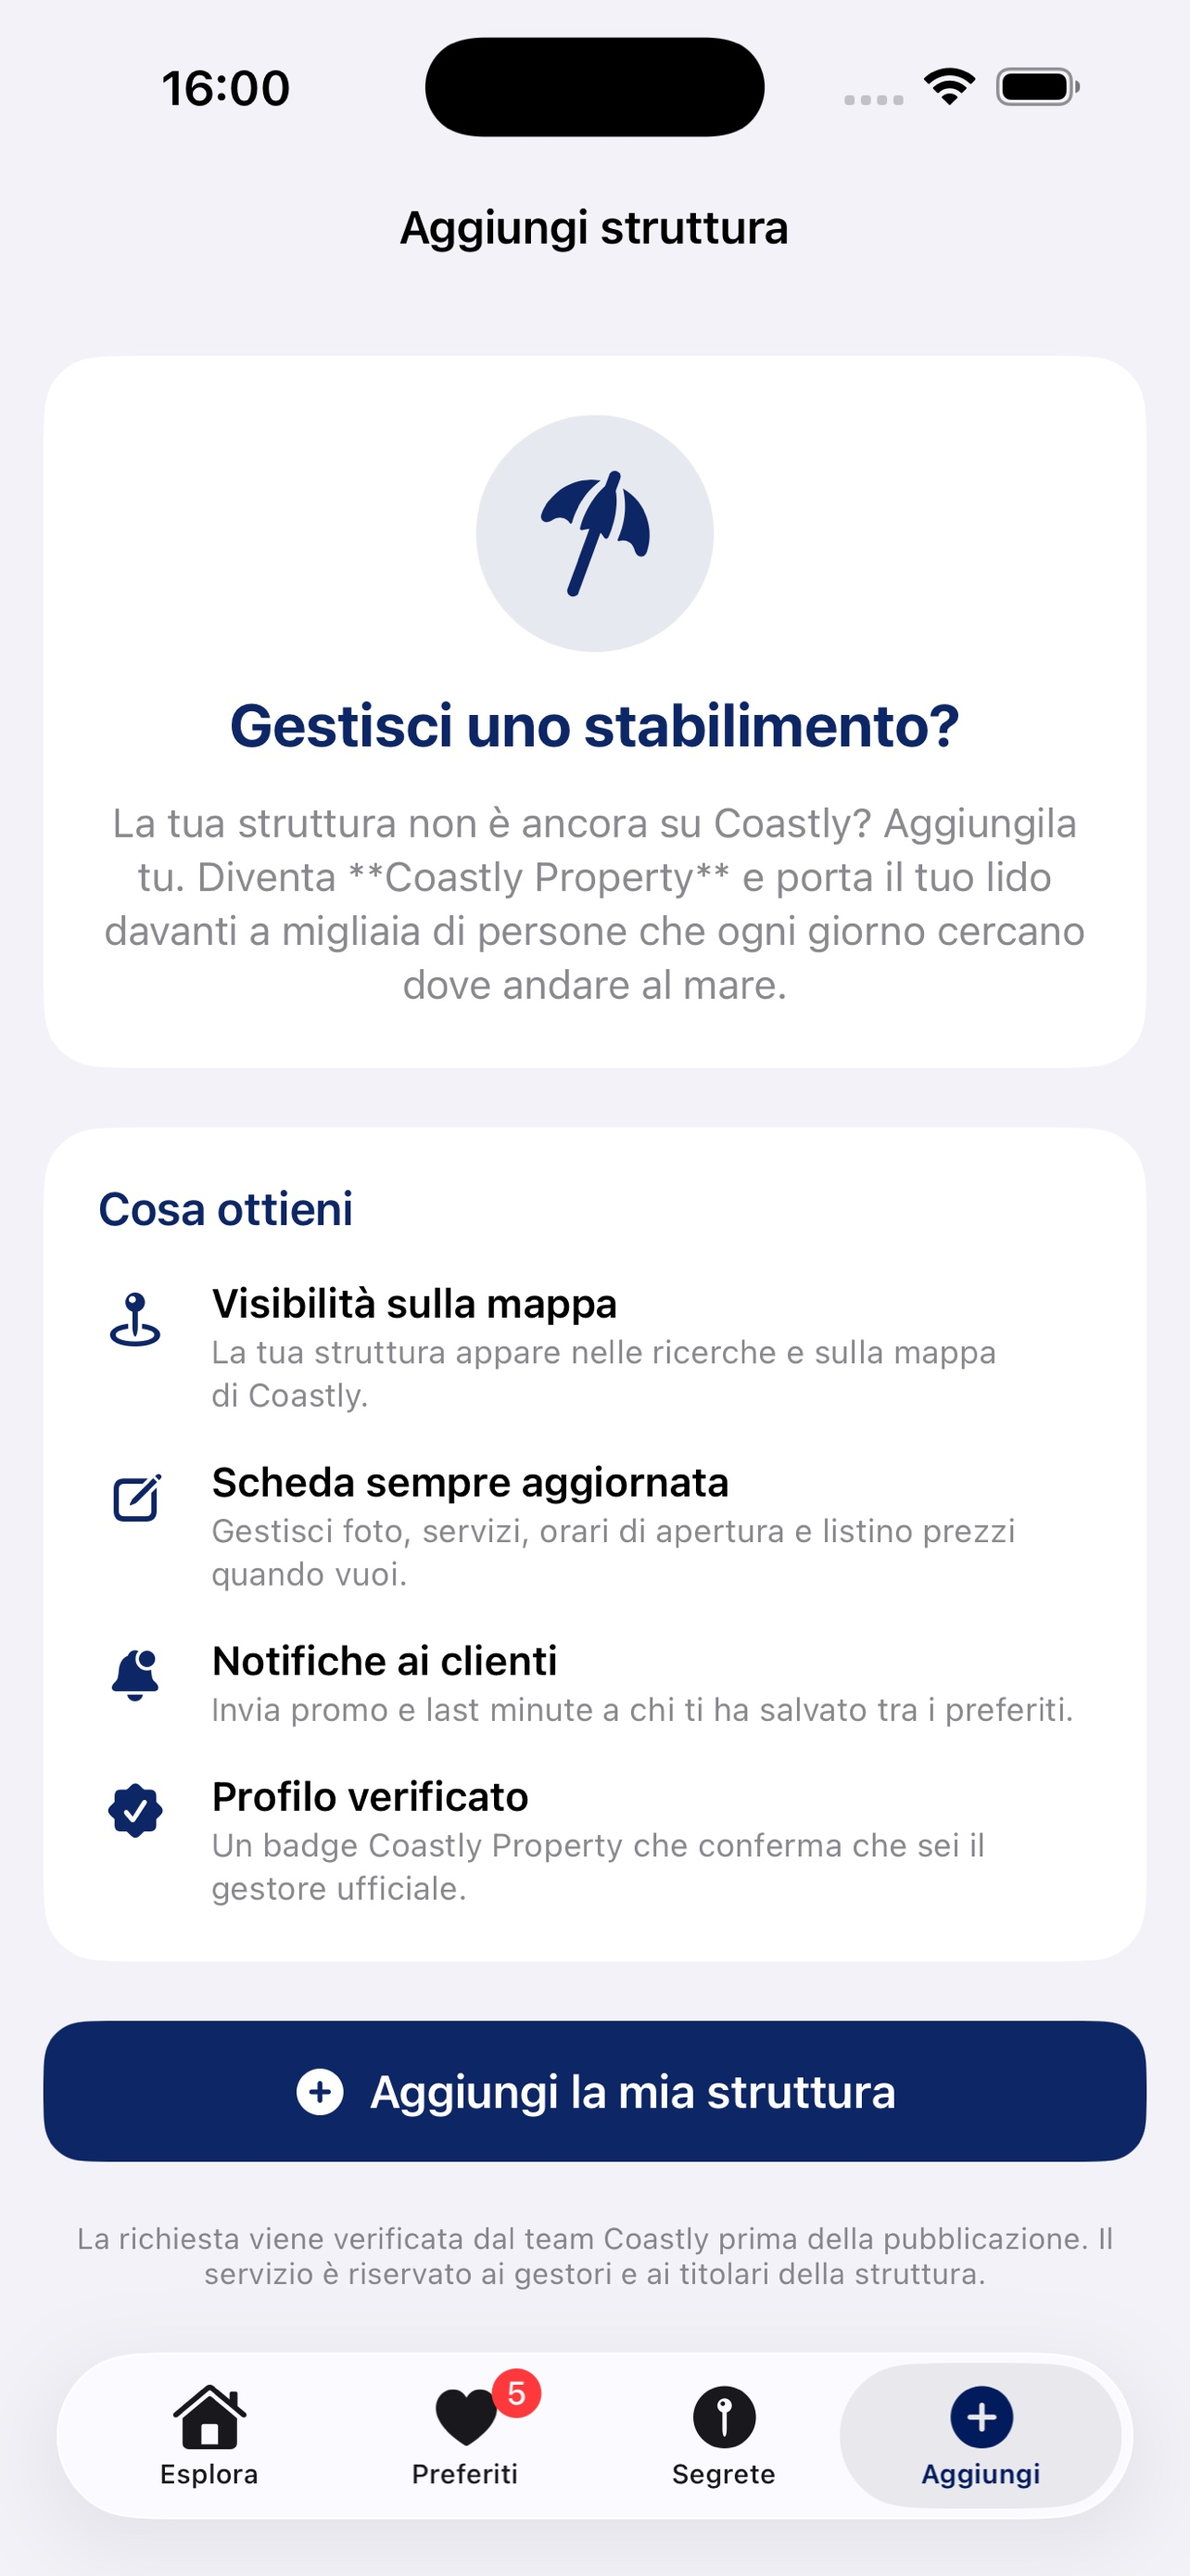
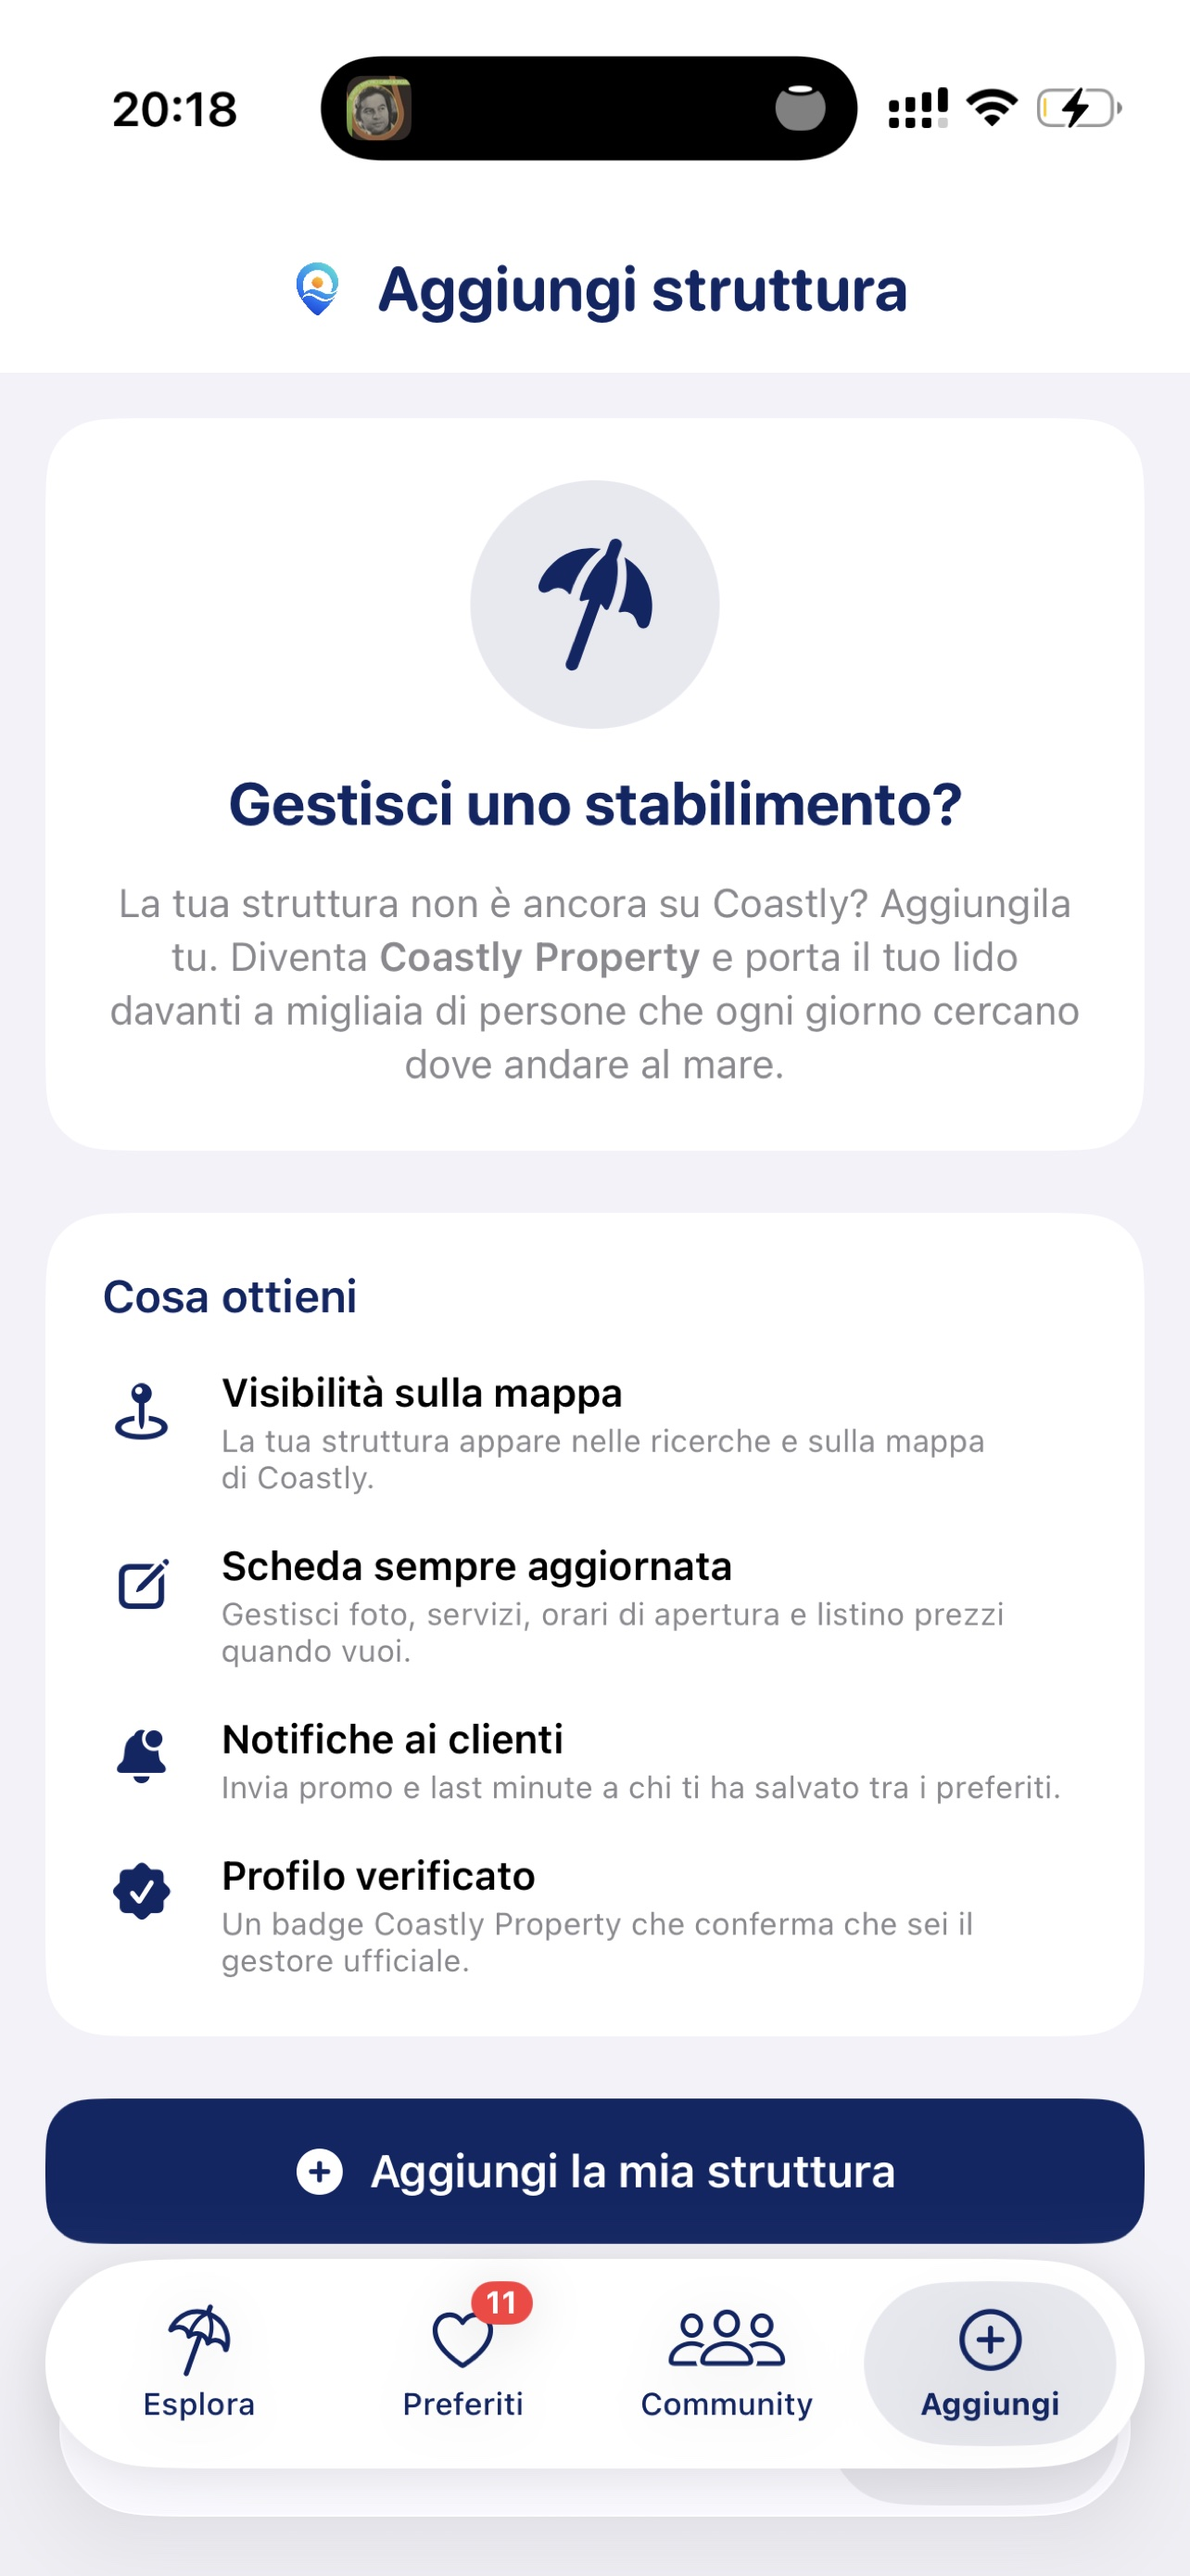
Aggiorna screenshot app con nuove catture iPhone
Sostituiti tutti gli screenshot del sito con le catture più recenti
da Documents/Confidential/App/Coastly/Screen Shots/iOS. Bump dei
parametri di cache-busting per forzare il refresh lato browser.

diff --git a/index.html b/index.html
@@ -1304,7 +1304,7 @@
         </div>
         <div class="phone-col wow fadeInUp" data-wow-delay="300ms">
           <div class="iphone-air">
-            <img src="img/preview-preferiti.jpg?v=2" alt="Schermata scheda lido Coastly">
+            <img src="img/preview-preferiti.jpg?v=3" alt="Schermata scheda lido Coastly">
           </div>
         </div>
       </div>
@@ -1320,13 +1320,13 @@
         </div>
         <div class="screens">
           <figure class="iphone-air wow fadeInUp" data-wow-delay="300ms" style="margin:0 auto">
-            <img src="img/preview-home.jpg?v=2" alt="Schermata home Coastly">
+            <img src="img/preview-home.jpg?v=3" alt="Schermata home Coastly">
           </figure>
           <figure class="iphone-air wow fadeInUp" data-wow-delay="300ms" style="margin:0 auto">
-            <img src="img/preview-mappa.jpg?v=3" alt="Schermata mappa Coastly">
+            <img src="img/preview-mappa.jpg?v=4" alt="Schermata mappa Coastly">
           </figure>
           <figure class="iphone-air wow fadeInUp" data-wow-delay="300ms" style="margin:0 auto">
-            <img src="img/preview-mare.jpg?v=2" alt="Schermata mare in tempo reale Coastly">
+            <img src="img/preview-mare.jpg?v=3" alt="Schermata mare in tempo reale Coastly">
           </figure>
           <figure class="iphone-air wow fadeInUp" data-wow-delay="300ms" style="margin:0 auto">
             <img src="img/section-dettaglio.jpg" alt="Schermata dettaglio lido Coastly">
